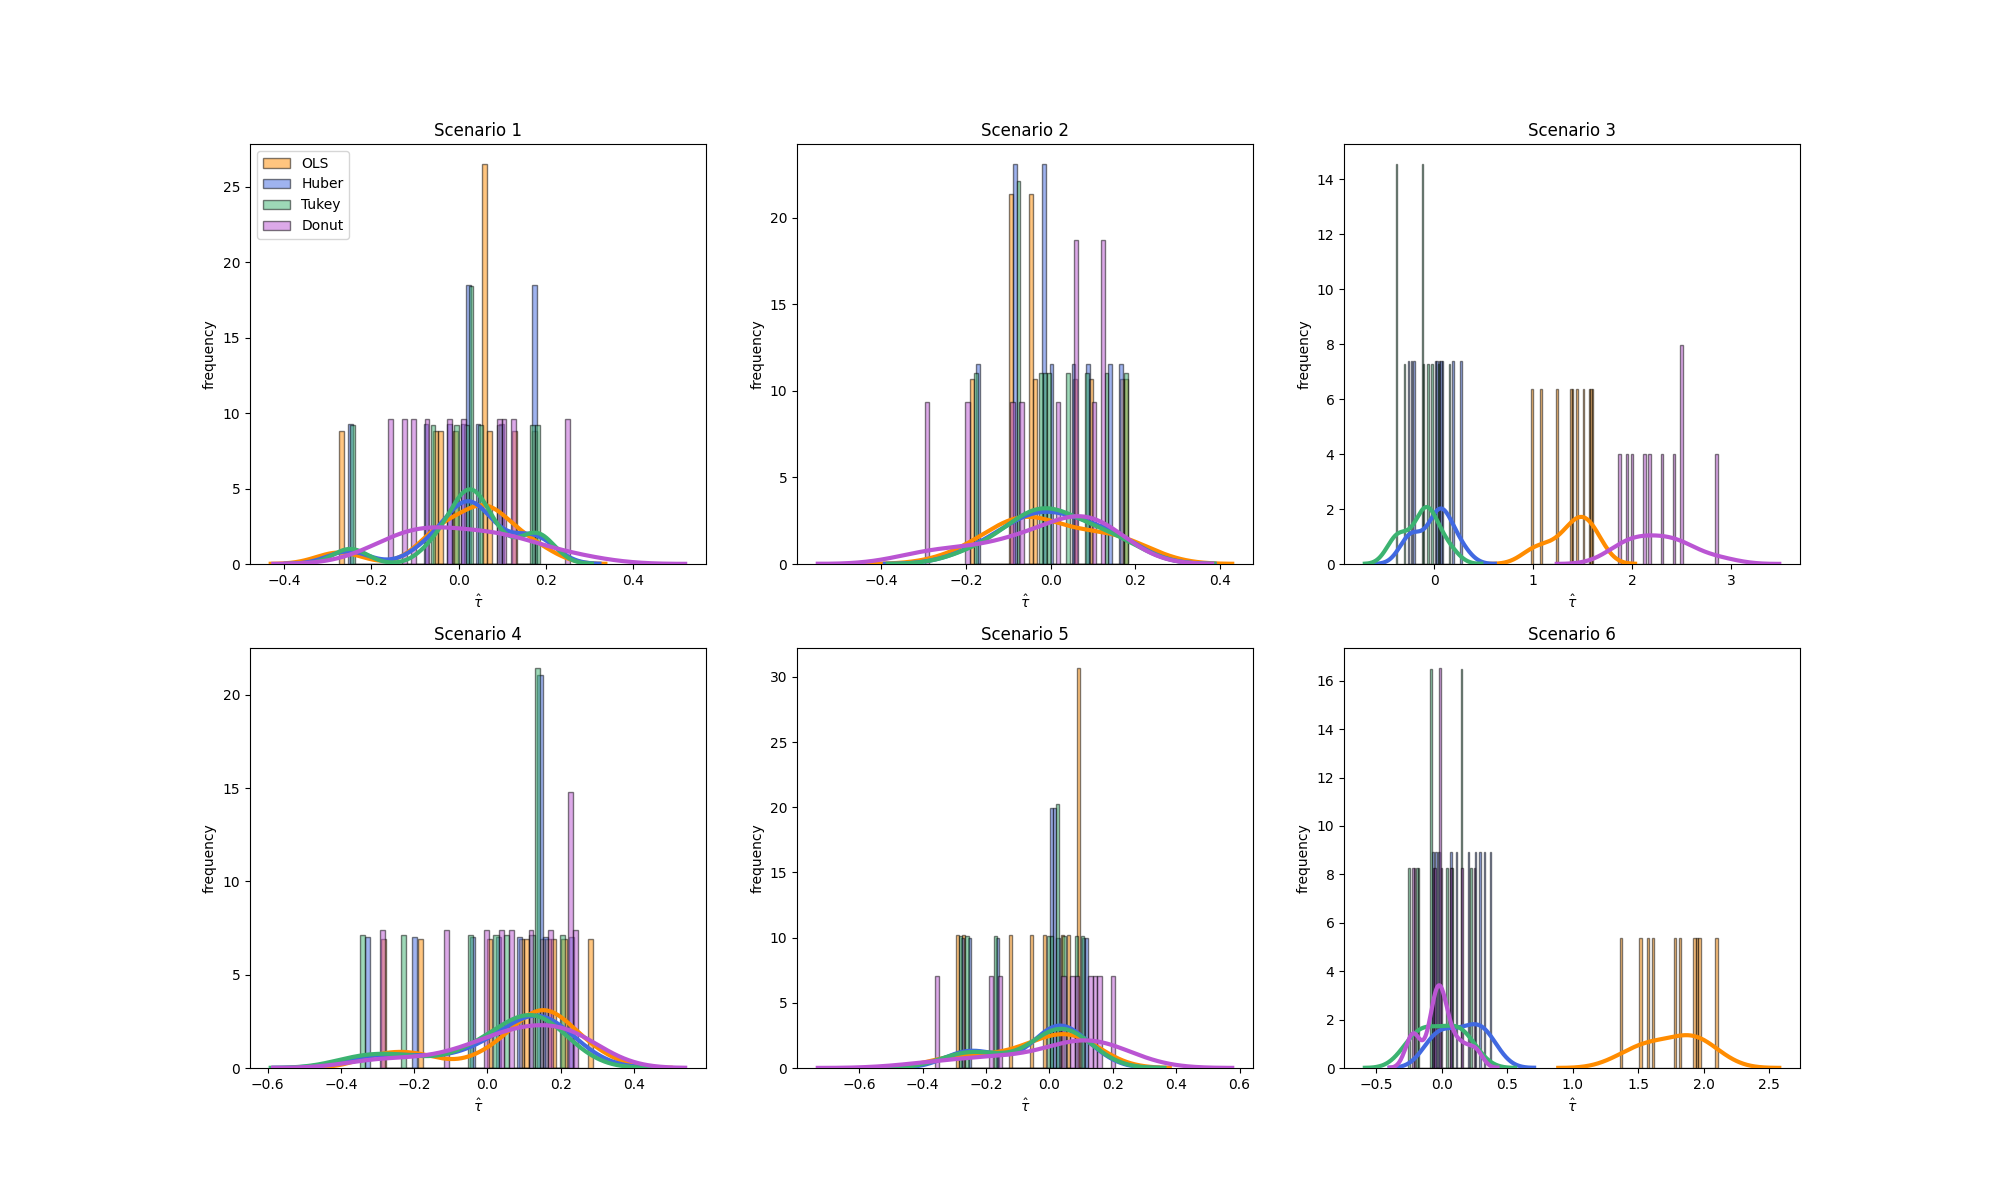
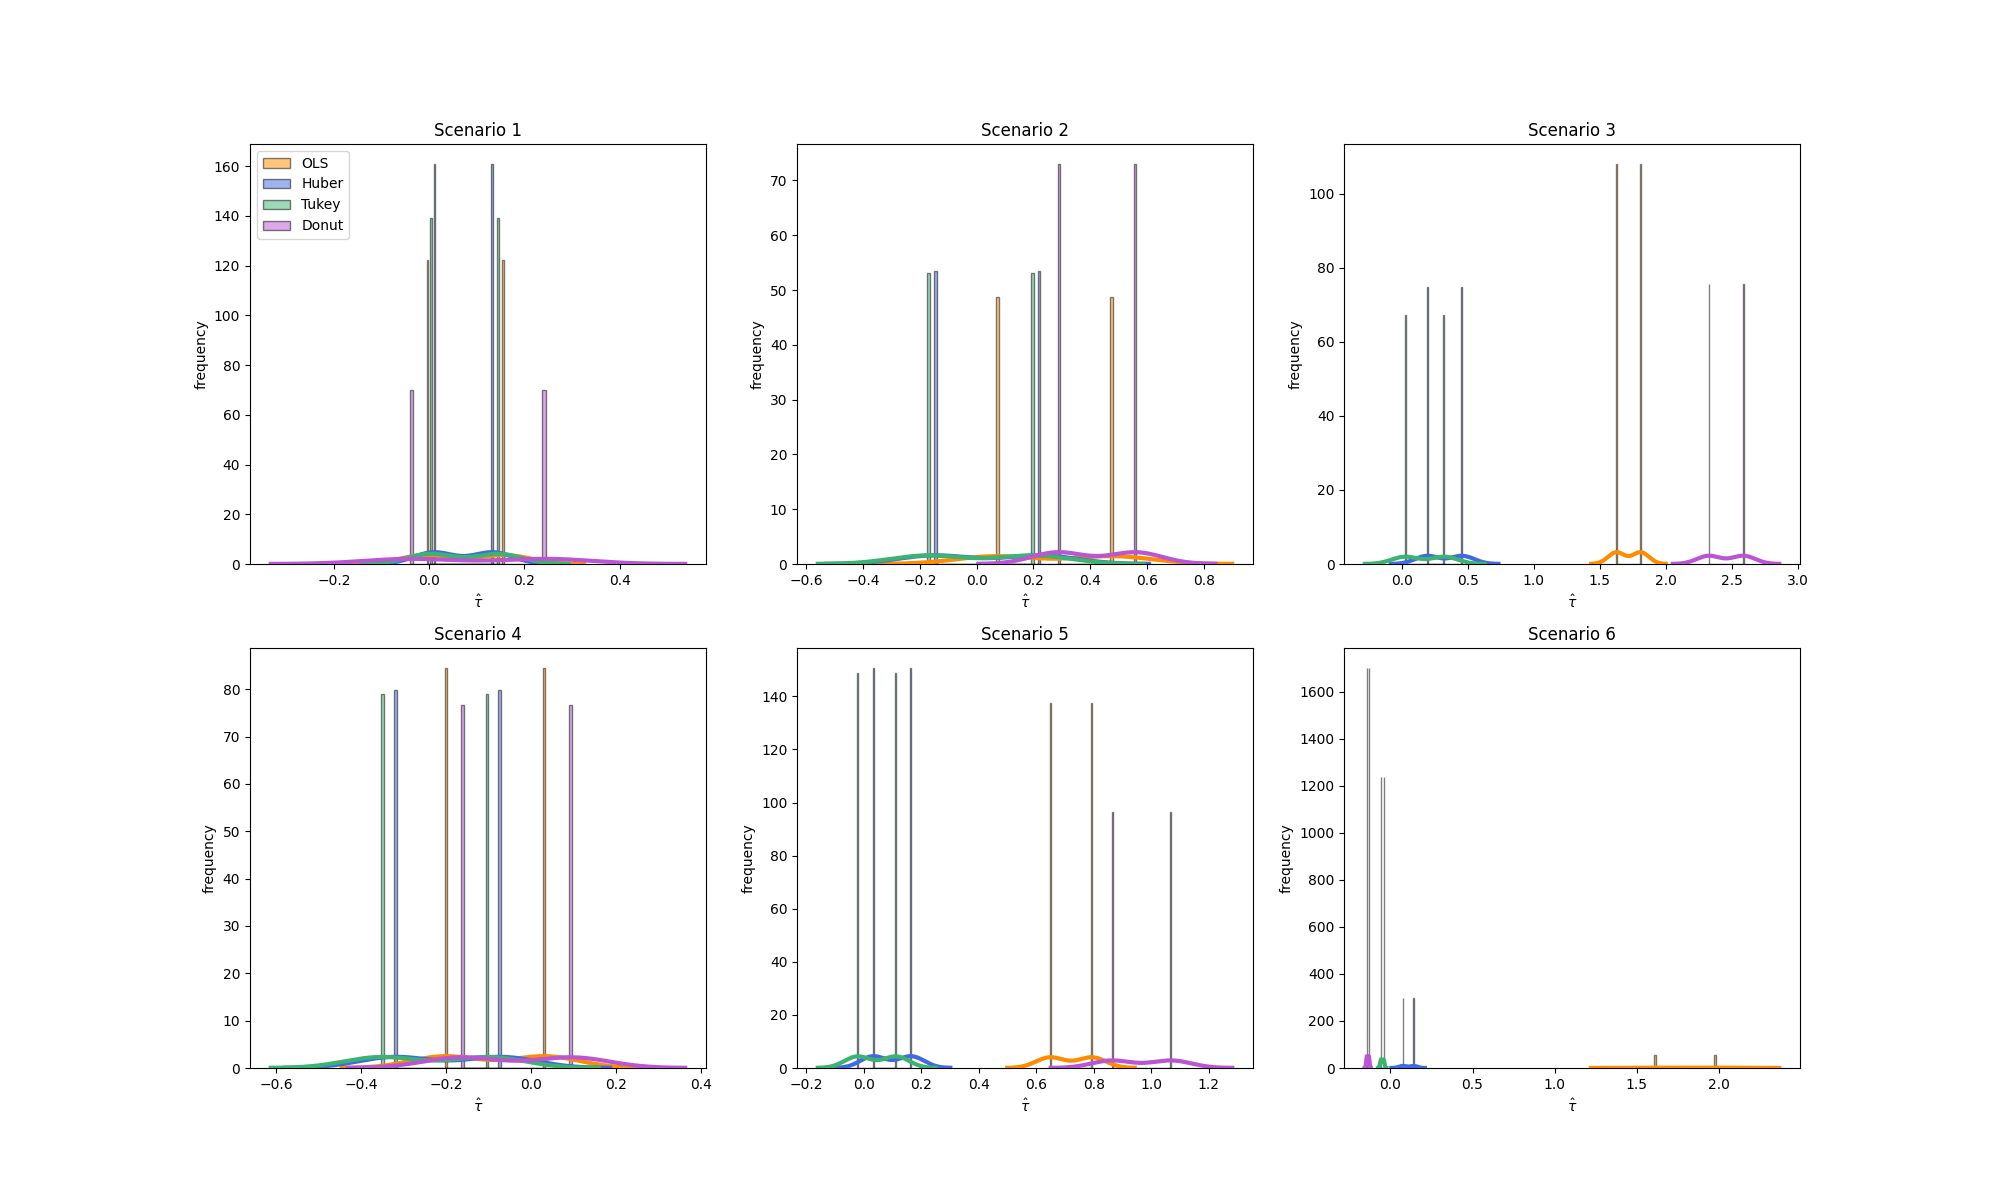
ready for thesis draft

diff --git a/src/sample.py b/src/sample.py
@@ -281,7 +281,7 @@ def genOutlier(Y, X, name, nOutliers=1, delta=0.1, cutoff=0):
                     i = i + 1
                 else:
                     i = i + 1
-    
+
     # Simple Outised generates outlier(s) just outside the right side of the donut stripe
     if name == "Simple Outside Right":
         i = 0
@@ -289,7 +289,7 @@ def genOutlier(Y, X, name, nOutliers=1, delta=0.1, cutoff=0):
             notFound = True
             # Find first observation just outside the stripe and change outcome value to 2.5
             while notFound & (i < len(X)):
-                if (X[i] <= -2 * delta) & (X[i] > -delta):
+                if (X[i] <= 2 * delta) & (X[i] > delta):
                     Y[i] = 10
                     Outliers[i] = 1
                     notFound = False
@@ -315,7 +315,7 @@ def genOutlier(Y, X, name, nOutliers=1, delta=0.1, cutoff=0):
                     i = i + 1
 
             notFound = True
-            # Find first observation just outside the right-side of the stripe and 
+            # Find first observation just outside the right-side of the stripe and
             # change outcome value to 2.5
             while notFound & (j < len(X)):
                 if (X[j] <= 2 * delta) & (X[j] > delta):
@@ -325,13 +325,13 @@ def genOutlier(Y, X, name, nOutliers=1, delta=0.1, cutoff=0):
                     j = j + 1
                 else:
                     j = j + 1
-         # Simple Oposite generates outlier(s) on both sides of the cutoff just outside the donut stripe.
+        # Simple Oposite generates outlier(s) on both sides of the cutoff just outside the donut stripe.
     if name == "Simple Oposite Inside":
         i = 0
         j = 0
         for k in range(nOutliers):
             notFound = True
-            # Find first observation just outside the left-side of the stripe and
+            # Find first observation just inside the left-side of the stripe and
             # change outcome value to -2.5
             while notFound & (i < len(X)):
                 if (X[i] <= cutoff) & (X[i] > -delta):
@@ -343,7 +343,7 @@ def genOutlier(Y, X, name, nOutliers=1, delta=0.1, cutoff=0):
                     i = i + 1
 
             notFound = True
-            # Find first observation just outside the right-side of the stripe and 
+            # Find first observation just inside the right-side of the stripe and
             # change outcome value to 2.5
             while notFound & (j < len(X)):
                 if (X[j] >= cutoff) & (X[j] < delta):

diff --git a/dev.py b/dev.py
@@ -44,7 +44,7 @@ import numpy as np
 # simResults = sim.simulations(r, "Basic Linear", n, tau=-1, alpha=0.5, beta=1, cutoff=0)
 # met.analyseSimResults(simResults)
 
-r1, r2, n = 0, 10, 250
+r1, r2, n = 2, 2, 250
 
 outlierScenarios = (
     "Simple Outside Right",
@@ -52,26 +52,26 @@ outlierScenarios = (
     "Simple Oposite",
     3,
     "Simple Outside Left",
-    1,
+    2,
     "Simple Outside Right",
     3,
     "Simple Oposite Inside",
     3,
 )
-#sim.powerSimulations(
-#    r1,
-#    "Basic Linear",
-#    n,
-#    alpha=0.5,
-#    beta=1,
-#    cutoff=0,
-#    parametersScenarios=outlierScenarios,
-#)
+sim.powerSimulations(
+    r1,
+    "Basic Linear",
+    n,
+    alpha=0.5,
+    beta=1,
+    cutoff=0,
+    parametersScenarios=outlierScenarios,
+)
 sim.simulations(
     r2,
     "Basic Linear",
     n,
-    tau=-1.5,
+    tau=-0.5,
     alpha=0.5,
     beta=1,
     cutoff=0,
